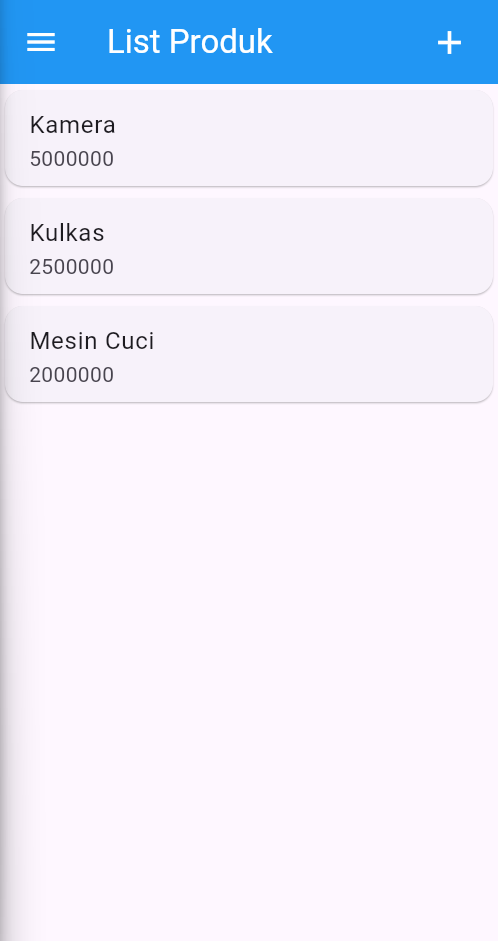
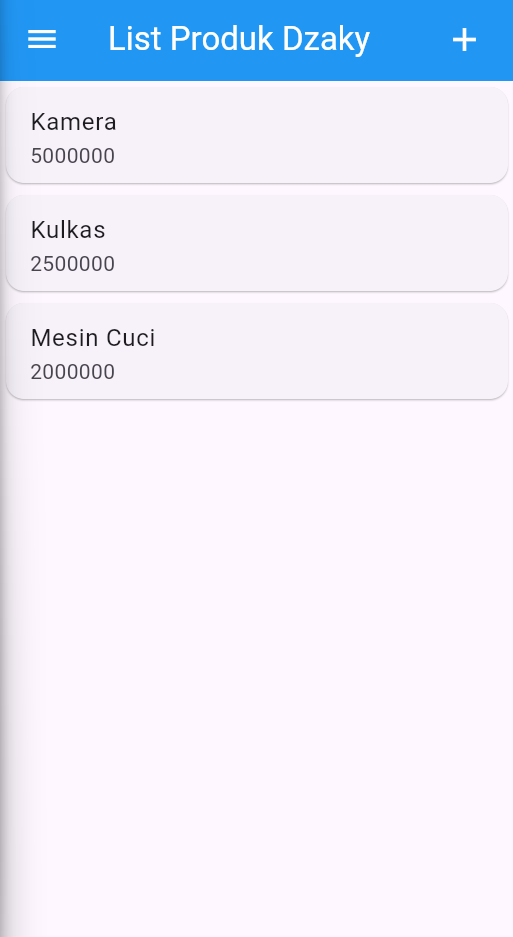
first commit

Changed region(s): [[0.0602, 0.1238, 0.9337, 0.3095], [0.0, 0.0309, 1.0, 0.0928], [0.0602, 0.3404, 0.3313, 0.4333]]

diff --git a/lib/ui/produk_form.dart b/lib/ui/produk_form.dart
@@ -28,7 +28,7 @@ class _ProdukFormState extends State<ProdukForm> {
   isUpdate() {
     if (widget.produk != null) {
       setState(() {
-        judul = "UBAH PRODUK";
+        judul = "UBAH PRODUK DZAKY";
         tombolSubmit = "UBAH";
         _kodeProdukTextboxController.text = widget.produk!.kodeProduk!;
         _namaProdukTextboxController.text = widget.produk!.namaProduk!;
@@ -36,7 +36,7 @@ class _ProdukFormState extends State<ProdukForm> {
             widget.produk!.hargaProduk.toString();
       });
     } else {
-      judul = "TAMBAH PRODUK";
+      judul = "TAMBAH PRODUK DZAKY";
       tombolSubmit = "SIMPAN";
     }
   }

diff --git a/lib/ui/registrasi_page.dart b/lib/ui/registrasi_page.dart
@@ -19,8 +19,9 @@ class _RegistrasiPageState extends State<RegistrasiPage> {
     return Scaffold(
       appBar: AppBar(
         backgroundColor: Colors.blue,
+        iconTheme: const IconThemeData(color: Colors.white),
         title: const Text(
-          "Registrasi",
+          "Registrasi Dzaky",
           style: TextStyle(color: Colors.white),
         ),
       ),

diff --git a/lib/ui/produk_page.dart b/lib/ui/produk_page.dart
@@ -18,7 +18,7 @@ class _ProdukPageState extends State<ProdukPage> {
         backgroundColor: Colors.blue,
         iconTheme: const IconThemeData(color: Colors.white),
         title: const Text(
-          'List Produk',
+          'List Produk Dzaky',
           style: TextStyle(color: Colors.white),
         ),
         actions: [

diff --git a/lib/ui/produk_detail.dart b/lib/ui/produk_detail.dart
@@ -21,7 +21,7 @@ class _ProdukDetailState extends State<ProdukDetail> {
         backgroundColor: Colors.blue,
         iconTheme: const IconThemeData(color: Colors.white),
         title: const Text(
-          'Detail Produk',
+          'Detail Produk Dzaky',
           style: TextStyle(color: Colors.white),
         ),
       ),

diff --git a/lib/ui/login_page.dart b/lib/ui/login_page.dart
@@ -19,7 +19,7 @@ class _LoginPageState extends State<LoginPage> {
       appBar: AppBar(
         backgroundColor: Colors.blue,
         title: const Text(
-          'Login',
+          'Login Dzaky',
           style: TextStyle(color: Colors.white),
         ),
       ),

diff --git a/lib/main.dart b/lib/main.dart
@@ -1,4 +1,5 @@
 import 'package:flutter/material.dart';
+import 'package:toko_kita/ui/login_page.dart';
 import 'package:toko_kita/ui/produk_page.dart';
 
 

diff --git a/README.md b/README.md
@@ -42,6 +42,7 @@
 
 ### 4. Product Form Page
 ![Product Form](produkform.png)
+![Product Form](produkform2.png)
 
 - AppBar dengan judul dinamis ("TAMBAH PRODUK" atau "UBAH PRODUK")
 - Form dengan TextFormField untuk kode, nama, dan harga produk
